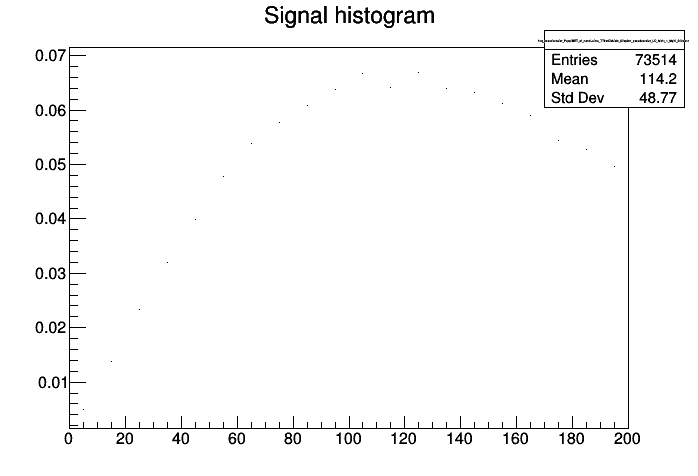
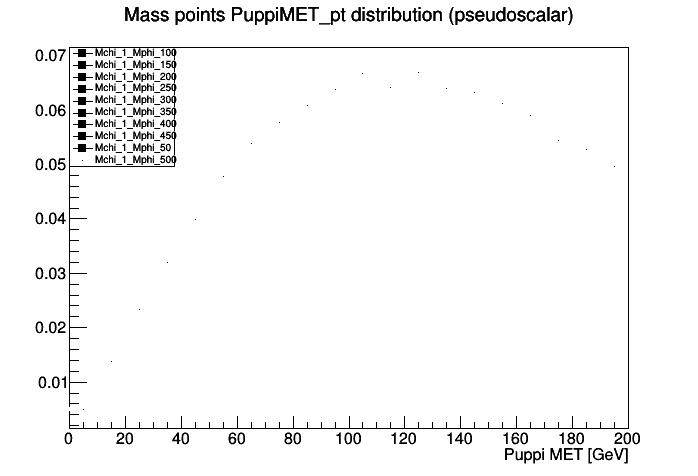
Updated macro

Changed region(s): [[0.1805, 0.0, 0.9928, 0.2353], [0.0903, 0.0882, 0.2708, 0.3529], [0.7221, 0.9412, 0.9026, 0.9706]]

diff --git a/scripts/plotSignals.py b/scripts/plotSignals.py
@@ -1,5 +1,5 @@
 import os, fnmatch, sys
-from ROOT import TCanvas, TFile, TProfile, TNtuple, TH1F, TH2F
+from ROOT import TCanvas, TLegend, TFile, TProfile, TNtuple, TH1F, TH2F
 
 #=============================================================================
 #SETUP
@@ -8,7 +8,7 @@ from ROOT import TCanvas, TFile, TProfile, TNtuple, TH1F, TH2F
 signalDir = "/eos/user/c/cprieels/work/SignalsPostProcessing/Pablo/Autumn18_102X_nAODv6_Full2018v6/MCl1loose2018v6__MCCorr2018v6__l2loose__l2tightOR2018v6/"
 
 #Categorios and variables to be plotted
-categories = ["scalar"] #Add the single top once available
+categories = ["scalar", "pseudoscalar"] #Add the single top once available
 variables = [["PuppiMET_pt", 0, 200, 20, "Puppi MET [GeV]"]] #Variable name, from, to, bins, xaxis
 
 #=============================================================================
@@ -38,25 +38,33 @@ def updateProgress(progress):
 #GET STARTED
 #=============================================================================
 for c, category in enumerate(categories):
+    legend = TLegend(0.1, 0.65, 0.25, 0.9)
+
     for v, variable in enumerate(variables):
         canvas = TCanvas( 'canvas_'+str(category)+'_'+str(variable[0]), 'Signal samples', 200, 10, 700, 500 )
         canvas.cd()
 
-    filenames = fnmatch.filter(os.listdir(signalDir), '*_'+category+'*Mchi_*')
+    filenames = fnmatch.filter(os.listdir(signalDir), '*_'+category+'*Mchi_1_*') #For now, only mChi 1 GeV
     for f, filename in enumerate(filenames):
         print('Now reading file... ' + filename)
+        massPoint = "_".join(filename.split("_")[5:9]).replace('.root', '')
+
         signalFile = TFile.Open(signalDir+filename, "read")
         signalTree = signalFile.Get("Events")
 
         for v, variable in enumerate(variables):
-            signalHist = TH1F('hist_'+str(category)+'_'+str(variable[0])+'_'+str(filename), 'Mass points ' + variable[0] + ' distribution (' + category + ")", variable[3], variable[1], variable[2])
-            signalTree.Draw('PuppiMET_pt >> signalHist')
+            histname = 'hist_'+str(category)+'_'+str(variable[0])+'_'+str(filename)
+            signalHist = TH1F(histname, 'Mass points ' + variable[0] + ' distribution (' + category + ")", variable[3], variable[1], variable[2])
             
-            print("Integral: " + str(signalHist.Integral()))
-            #signalHist.Scale(1./signalHist.Integral()) #Normalize the histo to unity
-            signalHist.SetLineWidth(2)
+            signalTree.Draw(variable[0] + ' >> ' + histname)
+            signalHist.Scale(1./signalHist.Integral()) #Normalize the histo to unity
+            signalHist.SetLineWidth(4)
             signalHist.SetLineColor(632+f)
+            signalHist.SetStats(0)
             signalHist.GetXaxis().SetTitle(variable[4])
             signalHist.Draw('same')
+
+            legend.AddEntry(signalHist, massPoint)
+            legend.Draw()
             
     canvas.SaveAs(category+'.png')

diff --git a/README.md b/README.md
@@ -12,15 +12,15 @@ This needs to be done using CMSSW_10_2_16_patch1. For some reason, at this stage
 Then, the Premix can be produced by running the premix.py file, using CRAB and the crab_cfg_premix.py.
 This needs to be done using CMSSW_10_2_5.
 
-### Step 1 (AOD)
+### Step 2 (AOD)
 Then, the AOD can be produced by running the aodsim.py file, using CRAB and the crab_cfg_aodsim.py.
 This needs to be done using CMSSW_10_2_5.
 
-### Step 1 (MiniAOD)
+### Step 3 (MiniAOD)
 Then, the MiniAOD can be produced by running the miniaod.py file, using CRAB and the crab_cfg_miniaod.py.
 This needs to be done using CMSSW_10_2_5.
 
-### Step 1 (NanoAODv6)
+### Step 4 (NanoAODv6)
 Finally, the NanoAODv6 can be produced by running the nanoaod.py file, using CRAB and the crab_cfg_nanoaod.py.
 This needs to be done using CMSSW_10_2_18 and lxplus6.
 
